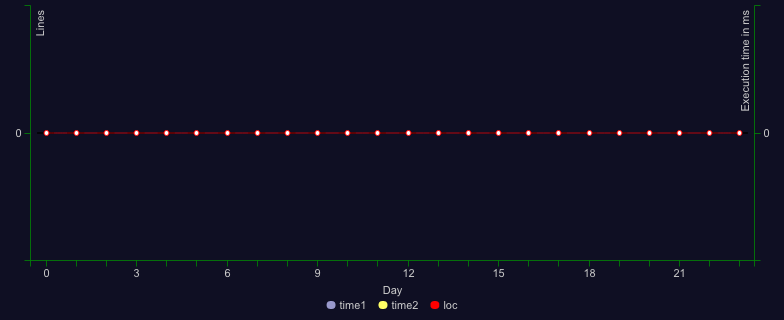
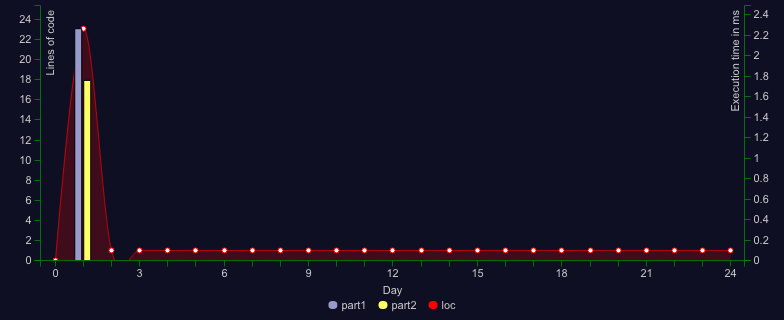
feat: day 1 solution

diff --git a/src/day01/index.ts b/src/day01/index.ts
@@ -1,0 +1,79 @@
+import run from "aocrunner"
+import {
+  comparator,
+  gt,
+  head,
+  map,
+  max,
+  pipe,
+  reduce,
+  sort,
+  split,
+  sum,
+  take,
+} from "ramda"
+
+const parseInput = (rawInput: string) =>
+  pipe(
+    split(/\n{2,}/g),
+    map(pipe(split("\n"), map(Number))),
+    map(sum),
+    sort(comparator(gt)),
+  )(rawInput)
+
+const part1 = (rawInput: string) => head(parseInput(rawInput))
+
+const part2 = (rawInput: string) => pipe(take(3), sum)(parseInput(rawInput))
+
+run({
+  part1: {
+    tests: [
+      {
+        input: `
+          1000
+          2000
+          3000
+
+          4000
+
+          5000
+          6000
+
+          7000
+          8000
+          9000
+
+          10000
+      `,
+        expected: 24000,
+      },
+    ],
+    solution: part1,
+  },
+  part2: {
+    tests: [
+      {
+        input: `
+          1000
+          2000
+          3000
+
+          4000
+
+          5000
+          6000
+
+          7000
+          8000
+          9000
+
+          10000
+      `,
+        expected: 45000,
+      },
+    ],
+    solution: part2,
+  },
+  trimTestInputs: true,
+  onlyTests: false,
+})

diff --git a/README.md b/README.md
@@ -16,7 +16,7 @@
 
 <!--SOLUTIONS-->
 
-![Day](https://badgen.net/badge/01/%E2%98%86%E2%98%86/gray)
+[![Day](https://badgen.net/badge/01/%E2%98%85%E2%98%85/green)](src/day01)
 ![Day](https://badgen.net/badge/02/%E2%98%86%E2%98%86/gray)
 ![Day](https://badgen.net/badge/03/%E2%98%86%E2%98%86/gray)
 ![Day](https://badgen.net/badge/04/%E2%98%86%E2%98%86/gray)
@@ -74,9 +74,9 @@ yarn start 1
 
 ```
 Day 01
-Time part 1: -
-Time part 2: -
-Both parts: -
+Time part 1: 2.114ms
+Time part 2: 1.718ms
+Both parts: 3.83218ms
 ```
 
 ```
@@ -248,8 +248,8 @@ Both parts: -
 ```
 
 ```
-Total stars: 0/50
-Total time: 0ms
+Total stars: 2/50
+Total time: 3.832ms
 ```
 
 <!--/RESULTS-->

diff --git a/src/day01/README.md b/src/day01/README.md
@@ -1,0 +1,9 @@
+# 🎄 Advent of Code 2022 - day 1 🎄
+
+## Info
+
+Task description: [link](https://adventofcode.com/2022/day/1)
+
+## Notes
+
+...
